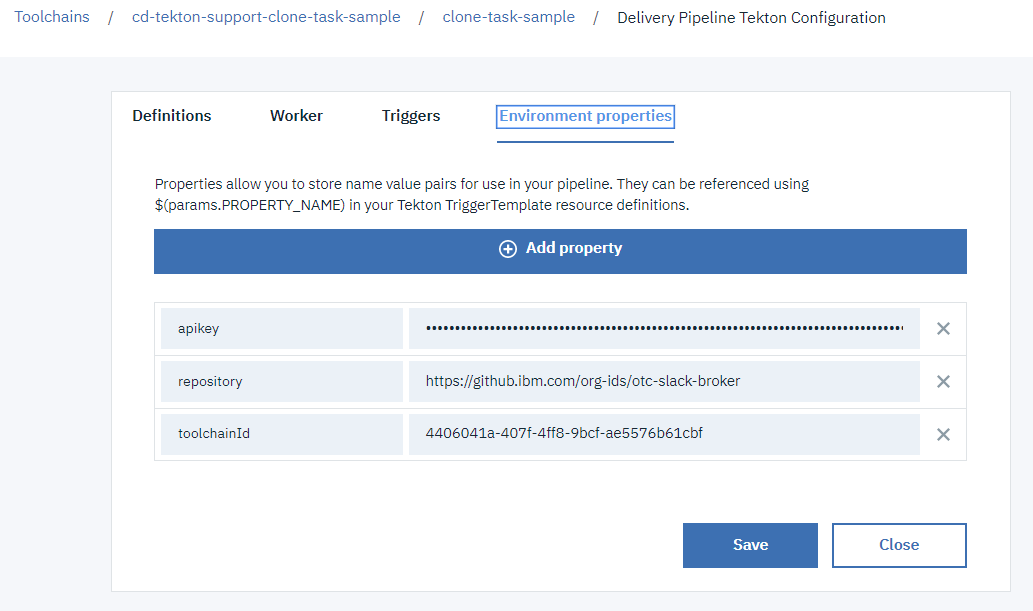
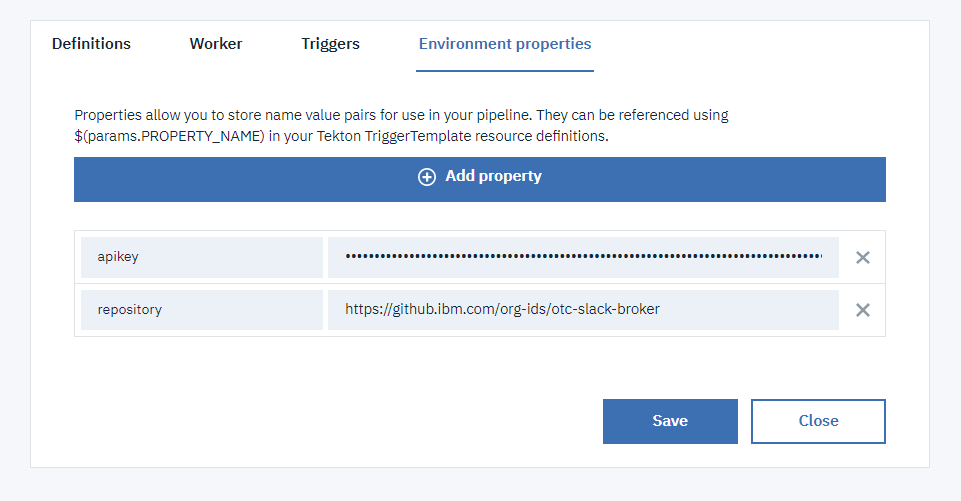
Final update on the README.md

diff --git a/container-registry/README.md b/container-registry/README.md
@@ -27,7 +27,6 @@
 #### Parameters
 
 * **task-pvc**: the output pvc - this is the name of the PVC that is mounted for the execution of the task
-* **resourceGroup**: (optional) target resource group (name or id) for the ibmcloud login operation
 * **pathToContext**: (optional) the path to the context that is used for the build (default to `.` meaning current directory)
 * **pathToDockerfile**: (optional) the path to the Dockerfile that is used for the build (default to `.` meaning current directory)
 * **buildkit_image**: (optional) The name of the BuildKit image used (default to `moby/buildkit:v0.6.3-rootless`)
@@ -35,6 +34,7 @@
 * **additionalTags**: (optional) comma-separated list of tags for the built image
 * **additionalTagsScript**: (optional) Shell script commands that will be invoked to provide additional tags for the build image
 * **propertiesFile**: (optional) name of the properties file that will be created (if needed) or updated (if existing) as an additional outcome of this task in the pvc. This file will contains the image registry-related information (`REGISTRY_URL`, `REGISTRY_NAMESPACE`, `REGISTRY_REGION`, `IMAGE_NAME`, `IMAGE_TAGS` and `IMAGE_MANIFEST_SHA`)
+* **resourceGroup**: (optional) target resource group (name or id) for the ibmcloud login operation
 
 ### Outputs
 
@@ -60,12 +60,12 @@
 #### Parameters
 
 * **task-pvc**: the output pvc - this is the name of the PVC that is mounted for the execution of the task
-* **resourceGroup**: (optional) target resource group (name or id) for the ibmcloud login operation
 * **imagePropertiesFile**: file containing properties of the image to be scanned (default to 'build.properties')
 * **maxIteration**: maximum number of iterations allowed while loop to check for va report (default to 30 iterations maximum)
 * **sleepTime**: sleep time (in seconds) between invocation of ibmcloud cr va in the loop (default to 10 seconds between scan result inquiry)
 * **scanReportFile**: (optional) filename for the scan report (json format) of the given image. It will be copied in the task-pvc
 * **failOnScannedIssues**: flag (`true` | `false`) to indicate if the task should fail or continue if issues are found in the image scan result (default to 'true')
+* **resourceGroup**: (optional) target resource group (name or id) for the ibmcloud login operation
 
 #### Resources
 
@@ -93,7 +93,7 @@ The `sample` sub-directory contains an EventListener definition that you can inc
 
 3) Add the environment properties:
 
-   - `toolchainId`, `apikey` (and optionally `toolchainRegion` if the toolchain is not in `us-south`) to inject Continuous Delivery toolchain context
+   - `apikey` to provide an API key used for the ibmcloud login/access
    - `repository` to indicate the git repository url to clone (correspoding to the one integrated in the toolchain)
    - `imageUrl` to indicate the URL of the image to push to the IBM Cloud Container Registry
 

diff --git a/git/README.md b/git/README.md
@@ -49,7 +49,7 @@ The `sample` sub-directory contains an EventListener definition that you can inc
 
 3) Add the environment properties:
 
-   - `toolchainId`, `apikey` (and optionally `toolchainRegion` if the toolchain is not in `us-south`) to inject Continuous Delivery toolchain context
+   - `apikey` to provide an API key used for the ibmcloud login/access
    - `repository` to indicate the git repository url to clone (correspoding to the one integrated in the toolchain)
 
    ![Tekton pipeline environment properties](./sample/sample-tekton-pipeline-environment-properties.png)
